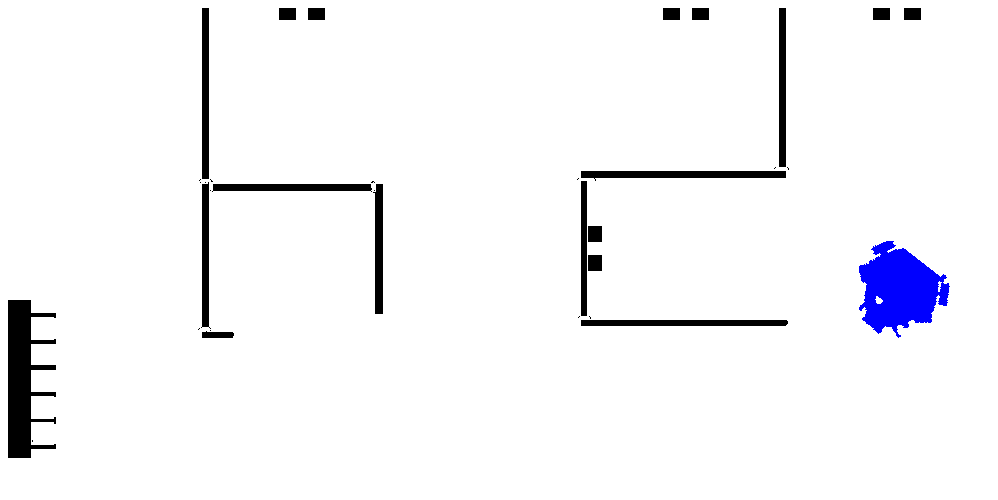
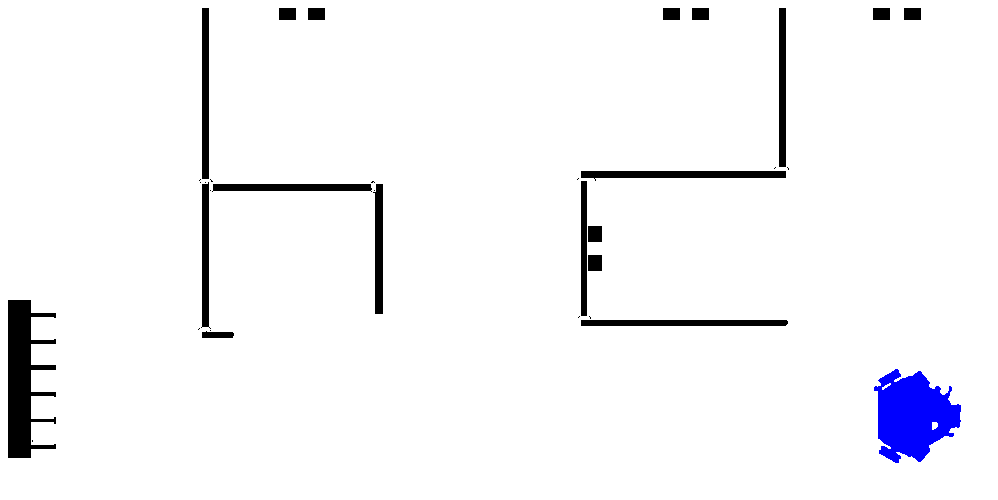
full first version

Changed region(s): [[0.8387, 0.48, 0.9629, 0.66], [0.8697, 0.75, 0.9629, 0.93]]

diff --git a/src/main/java/com/example/demo2/training/MainController.java b/src/main/java/com/example/demo2/training/MainController.java
@@ -780,7 +780,7 @@ public class MainController {
                 {
                     if (mas[i][j] == 1)
                     {
-                        limitLeft = j;
+                        limitLeft = j + 45;
                         calculateLeft = 0;
                     }
                     else
@@ -821,7 +821,7 @@ public class MainController {
                     if (mas[i][j] == 1)
                     {
 
-                        limitRight = j;
+                        limitRight = j + 45;
 
                         if (distanceRight > calculateRight)
                         {
@@ -880,7 +880,7 @@ public class MainController {
                 {
                     if (mas[j][i] == 1)
                     {
-                        limitUp = j;
+                        limitUp = j + 70;
                         calculateUp = 0;
                     }
                     else
@@ -919,7 +919,7 @@ public class MainController {
                     }
                     if (mas[j][i] == 1)
                     {
-                        limitDown = j;
+                        limitDown = j + 70;
 
                         if (distanceDown > calculateDown)
                         {

diff --git a/src/main/java/com/example/demo2/training/Elements.java b/src/main/java/com/example/demo2/training/Elements.java
@@ -141,11 +141,11 @@ public class Elements
         frontierX = 105;
         frontierY = 105;
 
-        positionRobotX = setPosition(positionRobotX, fronteirLeft, fronteirRight - frontierX, speedX);
-        positionRobotY = setPosition(positionRobotY, fronteirUp, fronteirDown - frontierY, speedY);
+//        positionRobotX = setPosition(positionRobotX, fronteirLeft, fronteirRight - frontierX, speedX);
+//        positionRobotY = setPosition(positionRobotY, fronteirUp, fronteirDown - frontierY, speedY);
 
-//        positionRobotX = setPosition(positionRobotX, limitLeft, limitRight - frontierX, speedX);
-//        positionRobotY = setPosition(positionRobotY, limitUp, limitDown - frontierY, speedY);
+        positionRobotX = setPosition(positionRobotX, limitLeft, limitRight - frontierX, speedX);
+        positionRobotY = setPosition(positionRobotY, limitUp, limitDown - frontierY, speedY);
     }
 
     /*

diff --git a/src/main/java/com/example/demo2/training/States.java b/src/main/java/com/example/demo2/training/States.java
@@ -16,6 +16,8 @@ public class States {
                     new Start(),
 
                     new Sensors(15, 15, States.USE_FRONT_SHARP, 0, SmoothEnum.OFF),
+                    new Sensors(0, 15, States.USE_RIGHT_SONIC, 0, SmoothEnum.OFF),
+                    new Sensors(15, 15, States.USE_RIGHT_SONIC, 0, SmoothEnum.OFF),
 
 //                    new Odometry(States.ABSOLUTE_ODOMETRY, 4000, 0, 45, SmoothEnum.OFF),
 

diff --git a/src/main/java/com/example/demo2/cases/Sensors.java b/src/main/java/com/example/demo2/cases/Sensors.java
@@ -103,7 +103,7 @@ public class Sensors implements IState
         }
         else
         {
-            train.setAxisSpeed(speedX * 0.7f, speedY * 0.7f, speedZ * 0.7f);
+            train.setAxisSpeed(speedX, speedY, speedZ);
         }
 
         return finish;
